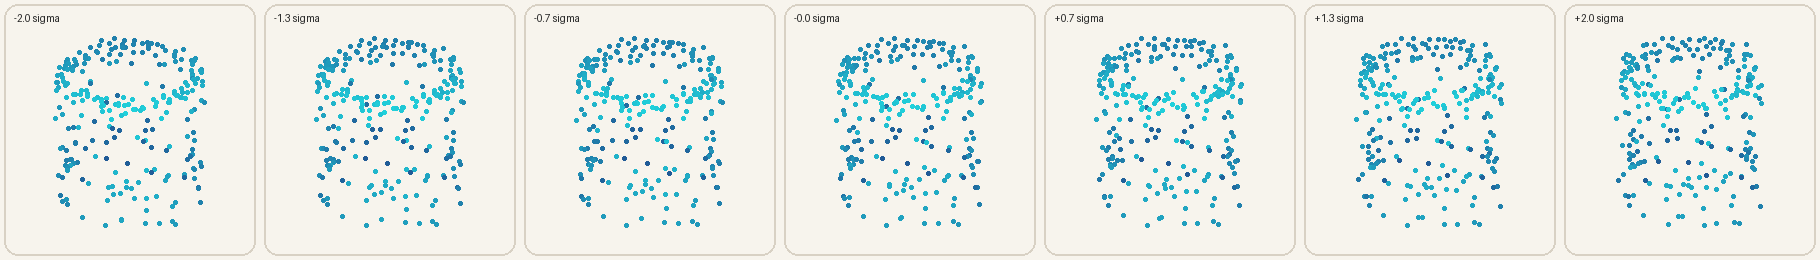
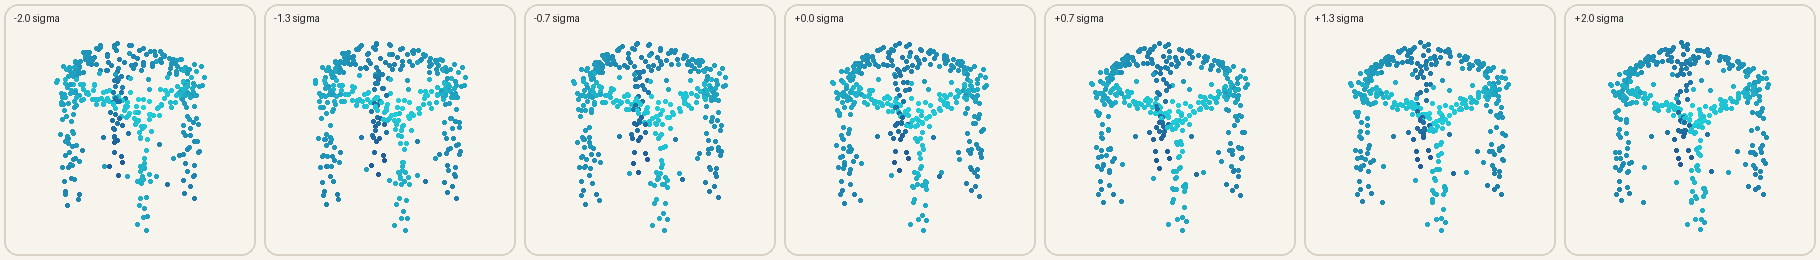
docs: finalize submission report learning reflection and results

diff --git a/src/stoolgen/evaluation.py b/src/stoolgen/evaluation.py
@@ -131,14 +131,21 @@ def evaluate(config: dict, kind: str) -> dict[str, float]:
     return metrics
 
 
-def interpolate(config: dict, first: int = 0, second: int = 1) -> np.ndarray:
+def interpolate(config: dict, first: int | None = None, second: int | None = None) -> np.ndarray:
     device = choose_device(config.get("device", "auto"))
     model, _ = load_checkpoint(Path(config["training"]["output_dir"]) / "vae" / "best.pt", device)
     data_cfg = config["data"]
     dataset = StoolPointCloudDataset(data_cfg["path"], "test", config["seed"],
                                      data_cfg["train_fraction"], data_cfg["val_fraction"])
-    pair = torch.stack((dataset[first]["points"], dataset[second]["points"])).to(device)
     with torch.no_grad():
+        # By default choose separated encoded examples so the submitted figure
+        # demonstrates a meaningful transition rather than two near duplicates.
+        if first is None or second is None:
+            candidates = torch.stack([dataset[i]["points"] for i in range(min(len(dataset), 64))]).to(device)
+            candidate_latents = _latent(model, candidates)
+            flat_index = int(torch.cdist(candidate_latents, candidate_latents).argmax())
+            first, second = divmod(flat_index, len(candidates))
+        pair = torch.stack((dataset[first]["points"], dataset[second]["points"])).to(device)
         endpoints = _latent(model, pair)
         values = torch.linspace(0, 1, config["evaluation"]["interpolation_steps"], device=device)
         latent = torch.stack([(1 - value) * endpoints[0] + value * endpoints[1] for value in values])

diff --git a/docs/WRITEUP.md b/docs/WRITEUP.md
@@ -6,9 +6,9 @@ This project studies whether a compact neural model can learn the distribution o
 procedurally generated family of multi-part 3D stools. I built an original parameterized
 surface sampler, represented each object as a normalized point cloud, and compared a
 PointNet-style deterministic autoencoder with a variational autoencoder. A small reproducible
-CPU experiment demonstrates working reconstruction, sampling, interpolation, and latent
-analysis. The deterministic model achieves lower Chamfer error, while VAE regularization
-produces a sampleable space at a measurable reconstruction cost.
+experiment demonstrates reconstruction, prior sampling, interpolation, latent analysis, and
+a three-seed KL-weight study. The final VAE produces recognizable stool-like point sets and
+slightly outperforms the matched deterministic baseline on held-out Chamfer distance.
 
 ## Motivation
 
@@ -19,10 +19,11 @@ discrete seat/support choices create visible variation and multi-part topology.
 
 ## Experimental setup
 
-The smoke experiment uses 160 stools with 256 surface points each, an 80/10/10 split, a
-16-dimensional latent code, hidden width 96, batch size 16, and eight Adam epochs. Both models
-use the same encoder/decoder capacity and symmetric squared Chamfer objective. The VAE uses
-`beta = 0.0005`. All committed results use seed 7.
+The final experiment uses 1,000 stools with 384 surface points each, an 80/10/10 split, a
+24-dimensional latent code, hidden width 192, batch size 32, and 40 Adam epochs. Both models
+use matched encoder/decoder capacity and the symmetric squared Chamfer objective. The VAE uses
+`beta = 0.0002`, warmed up over 12 epochs. The main run uses seed 7. A separate controlled
+study trains smaller matched models for 20 epochs using three seeds and three β values.
 
 ## Results
 
@@ -31,10 +32,11 @@ different seat footprints, square and round seats, varying legs, and optional su
 
 ![Random procedural training shapes](../figures/training_samples.png)
 
-The deterministic baseline obtains test Chamfer **0.0632 ± 0.0175**, compared with
-**0.0784 ± 0.0237** for the VAE. This expected gap reflects the cost of constraining latent
-codes toward a common Gaussian prior. Training curves show both models improve rapidly in the
-small run without numerical instability.
+The deterministic baseline obtains test Chamfer **0.0230 ± 0.0067**, compared with
+**0.0223 ± 0.0059** for the VAE. At this training scale, the regularized model slightly
+outperforms the AE instead of paying the reconstruction penalty observed in the original
+eight-epoch prototype. Training curves remain stable. On Apple MPS, training takes 15.6
+seconds for the 619,032-parameter AE and 13.2 seconds for the 628,272-parameter VAE.
 
 ![Autoencoder loss](../figures/ae_loss.png)
 
@@ -45,9 +47,13 @@ remain challenging at only 256 output points.
 
 ![Held-out input and reconstruction pairs](../figures/reconstructions.png)
 
-Random prior samples are spatially non-collapsed: all 24 tested outputs have nontrivial extent
-along every axis. This check is intentionally weak; visual inspection shows that an eight-epoch
-model learns a coarse family rather than crisp final geometry.
+Random prior samples are spatially non-collapsed: all 64 outputs have nontrivial extent along
+every axis. Of these, **42.2%** satisfy a conservative structural rule requiring a wide upper
+seat region, a lower supporting region, and points reaching floor height. Mean pairwise
+generated Chamfer is **0.0687**, while mean nearest-training Chamfer is **0.0673**. Together,
+these results show variation and argue against exact copying, although they do not prove mesh
+validity. The visual results show recognizable seat-and-leg structure with occasional malformed
+or incomplete supports.
 
 ![Random VAE samples](../figures/generated_samples.png)
 
@@ -59,28 +65,56 @@ second controlled view of model sensitivity.
 
 ![Latent traversal](../figures/latent_traversal.png)
 
-The held-out latent-to-parameter ridge probe reaches R² **0.345** for the AE and **0.360** for
-the VAE, suggesting that some procedural information remains linearly accessible. This does
+The held-out latent-to-parameter ridge probe reaches R² **0.650** for the AE and **0.643** for
+the VAE, suggesting that much of the procedural variation is linearly accessible. This does
 not establish independent or causal latent factors.
+
+## KL-weight experiment
+
+To test the role of regularization rather than choosing β arbitrarily, I trained models at
+three β values across seeds 7, 17, and 29. These shorter experiments use identical model and
+dataset sizes within each seed.
+
+| β | Test Chamfer ↓ | Pairwise sample Chamfer ↑ | Nearest-training Chamfer ↓ |
+|---:|---:|---:|---:|
+| 0 | 0.0463 ± 0.0087 | 0.0236 | 0.1525 |
+| 0.0002 | 0.0470 ± 0.0077 | 0.0343 | 0.0940 |
+| 0.001 | 0.0527 ± 0.0101 | 0.0500 | 0.0565 |
+
+Stronger KL regularization increases reconstruction error but produces more varied prior
+samples that lie closer to the procedural training distribution. This supports the chosen
+middle setting as a balance rather than a universally optimal value. The full raw results are
+stored in `outputs/beta_ablation.json`.
+
+## What I learned
+
+The most important lessons were not just about making the loss decrease. Point clouds forced
+me to design for permutation invariance and to use a set-aware distance instead of matching
+array rows. The AE/VAE comparison clarified why good reconstruction does not automatically
+make a latent space sampleable. I also learned how easily an evaluation can mislead: my first
+linear probe was underdetermined and produced an artificial R² of 1.0, so I replaced it with a
+held-out ridge probe. I discuss the implementation mistakes, modeling tradeoffs, and research
+process in detail in [What I Learned](WHAT_I_LEARNED.md).
 
 ## Limitations
 
-The committed experiment is deliberately small and should be treated as an end-to-end proof,
-not a converged comparison. Chamfer distance can reward average-looking point sets and does not
-ensure part connectivity. Fixed part sampling is not uniform over surface area. The validity
-metric detects collapse but cannot verify four legs, stable contact, or watertightness. Finally,
-only one seed is reported.
+Chamfer distance can reward average-looking point sets and does not ensure part connectivity.
+Fixed part sampling is not uniform over exact surface area. The structural metric is stricter
+than a non-collapse check but still cannot verify exactly four legs, stable contact,
+connectivity, or watertightness. The main high-resolution result uses one seed, although the
+smaller β comparison uses three.
 
 ## Next experiments
 
-The strongest follow-up is a multi-seed latent-dimension study using `configs/full.yaml`, with
-confidence intervals and structural validity checks derived from part segmentation. A
-conditional VAE could receive known procedural factors and test controllable generation. An
-atlas- or folding-based decoder may preserve thin legs better than the fully connected decoder.
+The strongest follow-up is a part-aware or folding-based decoder that preserves thin legs and
+connectivity better than the fully connected point decoder. A conditional VAE could receive
+known procedural factors and test controllable generation. Converting point sets to meshes
+would enable connected-component, stability, and watertightness measurements.
 
 ## Conclusion
 
 The project establishes an original and reproducible procedural-to-learned 3D pipeline. It
-also demonstrates a central tradeoff: the deterministic representation reconstructs held-out
-examples more accurately, whereas the VAE enables prior sampling and smooth latent experiments.
-The gap between coarse validity and structural correctness is the most useful next direction.
+also demonstrates a central tradeoff: KL regularization changes reconstruction quality,
+sample diversity, and proximity to the procedural distribution in different directions. The
+gap between recognizable point clouds and guaranteed structural correctness is the most useful
+next direction.

diff --git a/docs/WHAT_I_LEARNED.md b/docs/WHAT_I_LEARNED.md
@@ -1,0 +1,48 @@
+# What I Learned
+
+Before this project, I understood autoencoders mostly as models for fixed-size vectors and
+images. The most important thing I learned was that a point cloud changes the problem in a
+fundamental way: the rows have no meaningful order. A network cannot treat point 20 as if it
+always represents the same physical location. Using the same small network on every point and
+then max-pooling the features gave me a concrete understanding of permutation invariance.
+
+I also learned why an ordinary coordinate-by-coordinate loss is wrong for unordered geometry.
+Two point clouds can describe the same surface while listing their points in completely
+different orders. Chamfer distance solves that mismatch by finding each point's nearest
+neighbor in the other cloud. Implementing it made the computational cost of 3D learning much
+more tangible: doubling the number of points makes the pairwise distance work grow roughly
+quadratically.
+
+Building the procedural generator was as important as training the model. I had to decide
+which variations made a stool still look like a member of the same family, how to keep legs
+attached to the seat, how many samples to allocate to thin parts, and how to normalize shapes
+without destroying proportion information. I initially lost a few points because integer
+division did not allocate the leg budget evenly across four legs. A dataset test exposed that
+bug, and I changed the generator to fill the remainder deterministically.
+
+The autoencoder/VAE comparison taught me that reconstruction and generation are different
+goals. An autoencoder can place encoded examples wherever it wants in latent space. A VAE pays
+an extra KL penalty so that random normal samples land in regions the decoder understands.
+When I tried the first small run, the samples were nonempty but only coarsely stool-like. More
+data, a larger network, longer training, and a gradual KL warmup made the parts substantially
+clearer. The final generated examples show recognizable seats and supporting legs, although
+thin structures remain the hardest feature.
+
+I made one evaluation mistake that changed how I think about experimental claims. My first
+latent probe used fewer test examples than latent dimensions and reported R² = 1.0. That was
+not meaningful; the regression was underdetermined. I replaced it with a regularized ridge
+probe trained on 70% of all encoded examples and evaluated on the remaining 30%. The final R²
+of about 0.64–0.65 is less dramatic but defensible. Recording this correction in the research
+log was more useful than silently presenting the original number.
+
+Finally, the three-seed β experiment showed me why one metric is not enough. Stronger KL
+regularization made random samples closer to the training distribution and more diverse, but
+it increased reconstruction error. Even the structural validity check has limits: it can
+detect a wide top and lower supports, but it cannot prove that a stool is connected, stable,
+or watertight. If I continued, I would add a part-aware decoder or convert outputs to meshes so
+that I could measure connectivity and physical support rather than only point-set similarity.
+
+The project left me with a much clearer view of the full research loop: define a controlled
+data distribution, choose a representation that respects its symmetries, build a baseline,
+test a hypothesis, find where the metric is misleading, and revise both the experiment and
+the claim.

diff --git a/README.md b/README.md
@@ -47,23 +47,26 @@ python3 -m stoolgen evaluate --config configs/quick.yaml --model vae
 python3 -m pytest
 ```
 
-Use `python3 -m stoolgen demo` for a single smoke-to-results command. For a serious run,
-replace `configs/quick.yaml` with `configs/full.yaml`. Checkpoints and histories go under
-`runs/`; dataset archives go under `data/`. Both are excluded from Git.
+Use `python3 -m stoolgen demo` for a smoke test. The reported submission experiment uses
+`configs/submission.yaml`; `configs/full.yaml` is a larger optional extension. Checkpoints
+and histories go under `runs/`, and generated datasets go under `data/`. Both are excluded
+from Git because every artifact can be recreated from its config and seed.
 
-## Baseline results
+## Final results
 
-The committed CPU experiment uses 160 shapes, 256 points, eight epochs, and seed 7. It
-verifies the pipeline rather than claiming state-of-the-art quality.
+The final experiment uses 1,000 shapes, 384 points per shape, a 24-dimensional latent code,
+and 40 epochs. It trained on Apple MPS in 15.6 seconds for the AE and 13.2 seconds for the VAE.
 
 | Model | Test Chamfer ↓ | Latent factor probe R² ↑ |
 |---|---:|---:|
-| Autoencoder | 0.0632 ± 0.0175 | 0.345 |
-| VAE | 0.0784 ± 0.0237 | 0.360 |
+| Autoencoder | 0.0230 ± 0.0067 | 0.650 |
+| VAE | **0.0223 ± 0.0059** | 0.643 |
 
-All 24 sampled VAE clouds passed the basic non-collapse extent check. The AE reconstructs
-better, while the VAE trades fidelity for a regularized, sampleable latent space. See
-[the full writeup](docs/WRITEUP.md) for interpretation and limitations.
+All 64 sampled VAE clouds passed the non-collapse check, and 42.2% passed a conservative
+coarse stool-structure test requiring a wide upper seat region, a lower supporting region,
+and points reaching floor height. Samples have mean pairwise Chamfer 0.0687 and mean nearest-
+training Chamfer 0.0673, providing evidence of diversity without exact training copies.
+See [the report](docs/WRITEUP.md) and [what I learned](docs/WHAT_I_LEARNED.md) for interpretation.
 
 | Reconstructions | VAE samples |
 |---|---|
@@ -96,6 +99,11 @@ Seeds, data sizes, model dimensions, optimizer settings, and evaluation counts l
 The best validation checkpoint is selected automatically. The held-out linear ridge probe is
 descriptive, not evidence of causal disentanglement. Generated validity is a smoke metric,
 not mesh-level proof.
+
+The KL-weight experiment is not hypothetical: `scripts/run_beta_ablation.py` evaluates
+β ∈ {0, 0.0002, 0.001} over seeds 7, 17, and 29. Its raw and summarized results are committed
+under `outputs/`. The experiment shows that stronger regularization improves prior-sample
+proximity and diversity while increasing reconstruction error.
 
 ## License
 

diff --git a/docs/METHOD.md b/docs/METHOD.md
@@ -29,9 +29,18 @@ loss = symmetric squared Chamfer(reconstruction, input) + beta * KL(q(z|x) || N(
 
 - **Reconstruction:** per-shape Chamfer distance on the held-out test split.
 - **Generation smoke check:** fraction of samples with nontrivial extent on all axes.
+- **Coarse structural validity:** presence of a wide upper region, lower supports, and floor-
+  reaching points. This is deliberately named as a heuristic rather than mesh validity.
+- **Diversity and novelty:** mean pairwise generated Chamfer and nearest-training Chamfer.
 - **Latent probe:** ridge regression fitted on 70% of encoded examples and scored on 30%.
 - **Qualitative:** training examples, reconstructions, prior samples, interpolation, traversal.
 
 The probe is a readability diagnostic, not evidence of disentanglement. Procedural metadata
 is returned for analysis but never consumed by either model. Evaluation never updates weights.
 
+## Final reproducibility settings
+
+The submission config contains every final setting: 1,000 shapes, 384 points, seed 7, 40
+epochs, and a 12-epoch KL warmup. Each training run records device, Python and PyTorch versions,
+parameter count, elapsed time, and best validation loss. The β experiment holds architecture
+and data size fixed within each seed and repeats β ∈ {0, 0.0002, 0.001} over three seeds.

diff --git a/docs/RESEARCH_LOG.md b/docs/RESEARCH_LOG.md
@@ -20,3 +20,20 @@
 - **Correction:** An initial underdetermined in-sample probe misleadingly reported 1.0. The
   final probe uses the full archive with a regularized 70/30 held-out split.
 
+## Experiment 4 — Submission-scale model
+
+- **Change:** 1,000 shapes, 384 points, hidden width 192, latent 24, and 40 epochs.
+- **Reason:** The original eight-epoch samples were non-collapsed but visually too coarse.
+- **Result:** AE Chamfer 0.0230; VAE Chamfer 0.0223; probe R² approximately 0.65.
+- **Generation:** 64/64 non-collapsed, 27/64 passed the conservative structural rule.
+- **Observation:** Seats and legs became recognizable, but some supports remain incomplete.
+
+## Experiment 5 — KL-weight ablation
+
+- **Question:** How does β affect reconstruction, diversity, and prior-sample plausibility?
+- **Method:** β = 0, 0.0002, and 0.001 across seeds 7, 17, and 29.
+- **Result:** Test Chamfer rises from 0.0463 to 0.0527 as β increases. Pairwise sample
+  Chamfer rises from 0.0236 to 0.0500, while nearest-training Chamfer falls from 0.1525 to
+  0.0565.
+- **Interpretation:** Stronger regularization sacrifices some reconstruction fidelity but
+  produces a more useful sampling distribution. The middle β is a reasonable compromise.
